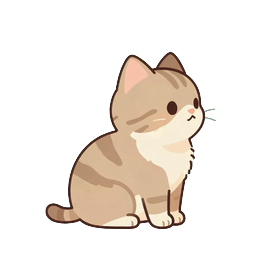
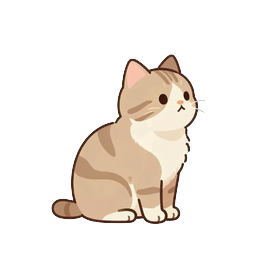
spec: record the backdrop's framing cost, and the tabby curation findings
Measured after implementation: the cyan backdrop makes Z-Image draw the pet ~40%
smaller in AREA. Same species, same clause, same seed, only the backdrop differing
-- tabby 31.1% -> 18.3%, corgi 24.1% -> 14.6%. Both baselines reproduced exactly
on a re-run, so this is not seed variance. It reads as the model treating a
coloured field as a scene and leaving environmental space, where a white field
reads as "sprite on blank" and it fills.

It matters beyond looks: ~40% fewer real pixels of animal survive the downscale
into a 256 cell, so it is a resolution cost as well as a scale one.

A prompt phrase recovers about half and no more -- best was "tightly cropped, the
animal fills most of the image" at 25.6% against white's 31.1%, while "the animal
fills the frame" made it WORSE (17.0%). The model reads these as composition
hints, not scale instructions.

Recorded as 8.1 with three options and no decision: accept, take the partial
prompt recovery, or crop to the subject at pack time. The third is the only real
fix and also cures a pre-existing problem -- framing has never been consistent,
ranging 24.1% (corgi) to 41% (snow leopard) even on white -- but a per-frame crop
would make the animal breathe through a walk cycle, so it needs one shared box
from the union of every frame's subject, and it flattens genuine species scale.

Also from the tabby curation attempt: the curation prompt repeated the wrapping
[…]

Changed region(s): [[0.1562, 0.1875, 0.8438, 0.9062], [0.5312, 0.5625, 0.625, 0.6562]]

diff --git a/pet_factory/prompt_templates.py b/pet_factory/prompt_templates.py
@@ -103,10 +103,14 @@ def remix_still_prompt(animal: str, pose: str = DEFAULT_POSE) -> str:
 # those scripts and both hardcoded "plain white background" — so the backdrop existed in
 # three places and two of them would have been missed. `test_prompt_templates` explicitly
 # excluded this sentence for exactly that reason; now there is one of it.
-CURATION_STILL_TEMPLATE = (
-    "a cute cartoon {species}, side profile view, facing right, standing, "
-    "full body, centered, simple flat shading, storybook style"
-)
+# It carries ONLY what the wrapping template does not already say. It used to repeat the
+# template almost word for word — "a cute cartoon a cute cartoon tabby cat, side profile
+# view, facing right, standing, ... side profile view, facing right, standing, ..." — because
+# it was written as a STANDALONE prompt and later reused as the `animal` of a real build.
+# Every instruction appeared twice, which diluted all of them: asked for a standing side
+# profile, Z-Image drew a sitting cat three seeds out of three. Saying each thing once is
+# what makes "standing" land.
+CURATION_STILL_TEMPLATE = "{species}, full body, centered"
 
 
 def curation_still_prompt(species: str) -> str:

diff --git a/docs/SPEC_MATTE_BACKDROP.md b/docs/SPEC_MATTE_BACKDROP.md
@@ -452,6 +452,53 @@ why they need eyes on them before the pool nodes are rolled:
 
 ---
 
+## 8.1 KNOWN COST — the backdrop shrinks the pet by ~40% of its area
+
+**Measured after implementation, 2026-07-27.** Same species, same clause, **same seed**, only
+the backdrop phrase differing. The animal's share is read off the DRAWING (flood the field in
+from the border, count what it cannot reach), so the matte's own quality cannot contaminate it:
+
+| pet | white | cyan | area lost |
+|---|---|---|---|
+| tabby cat | 31.1% | 18.3% | **−41%** |
+| corgi dog | 24.1% | 14.6% | **−39%** |
+
+This is not seed variance — both baselines reproduced exactly on a re-run. Z-Image appears to
+treat a coloured field as a *scene* and leaves environmental space around the subject, where a
+white field reads as "sprite on blank" and it fills.
+
+**Why it matters beyond looks:** the pet occupies ~40% less of the 704² frame, so ~40% fewer
+real pixels of animal survive the downscale into a 256² cell. It is a resolution cost, not
+only a scale one.
+
+**A prompt phrase recovers about half, and no more:**
+
+| variant | share |
+|---|---|
+| white, today's words | 31.1% |
+| cyan, today's words | 18.3% |
+| cyan + `the animal fills the frame` | 17.0% (worse) |
+| cyan + `large in frame, close-up` | 23.7% |
+| cyan + `tightly cropped, the animal fills most of the image` | **25.6%** |
+
+"Fills the frame" making it *worse* suggests the model reads these as composition hints rather
+than scale instructions. So the prompt route is a partial mitigation, not a fix.
+
+**Three options, none of them free** — this is an open decision, not a settled one:
+
+1. **Accept.** Sprites are complete, just smaller in their cell. Cheapest, and pre-launch the
+   inconsistency with existing pets does not matter.
+2. **Take the partial recovery** — one clause, ~half the loss back, no new failure modes.
+3. **Crop to the subject at pack time.** Fully fixes framing AND the pre-existing variance —
+   even on white, framing ranged 24.1% (corgi) to 41% (snow leopard), so sprite scale has
+   never been consistent. Two caveats: a PER-FRAME crop makes the animal *breathe* through a
+   walk cycle, so it needs one shared box computed from the union of every frame's subject;
+   and it flattens genuine species scale, which is a product question rather than a technical
+   one.
+
+**Not decided here.** It affects every pet built from now on, so it wants a deliberate call
+before any catalog curation happens on top of it.
+
 ## 9. Implementation decisions — closed before code
 
 Found by asking what two implementers would do differently. **I3 is the one that matters**:
